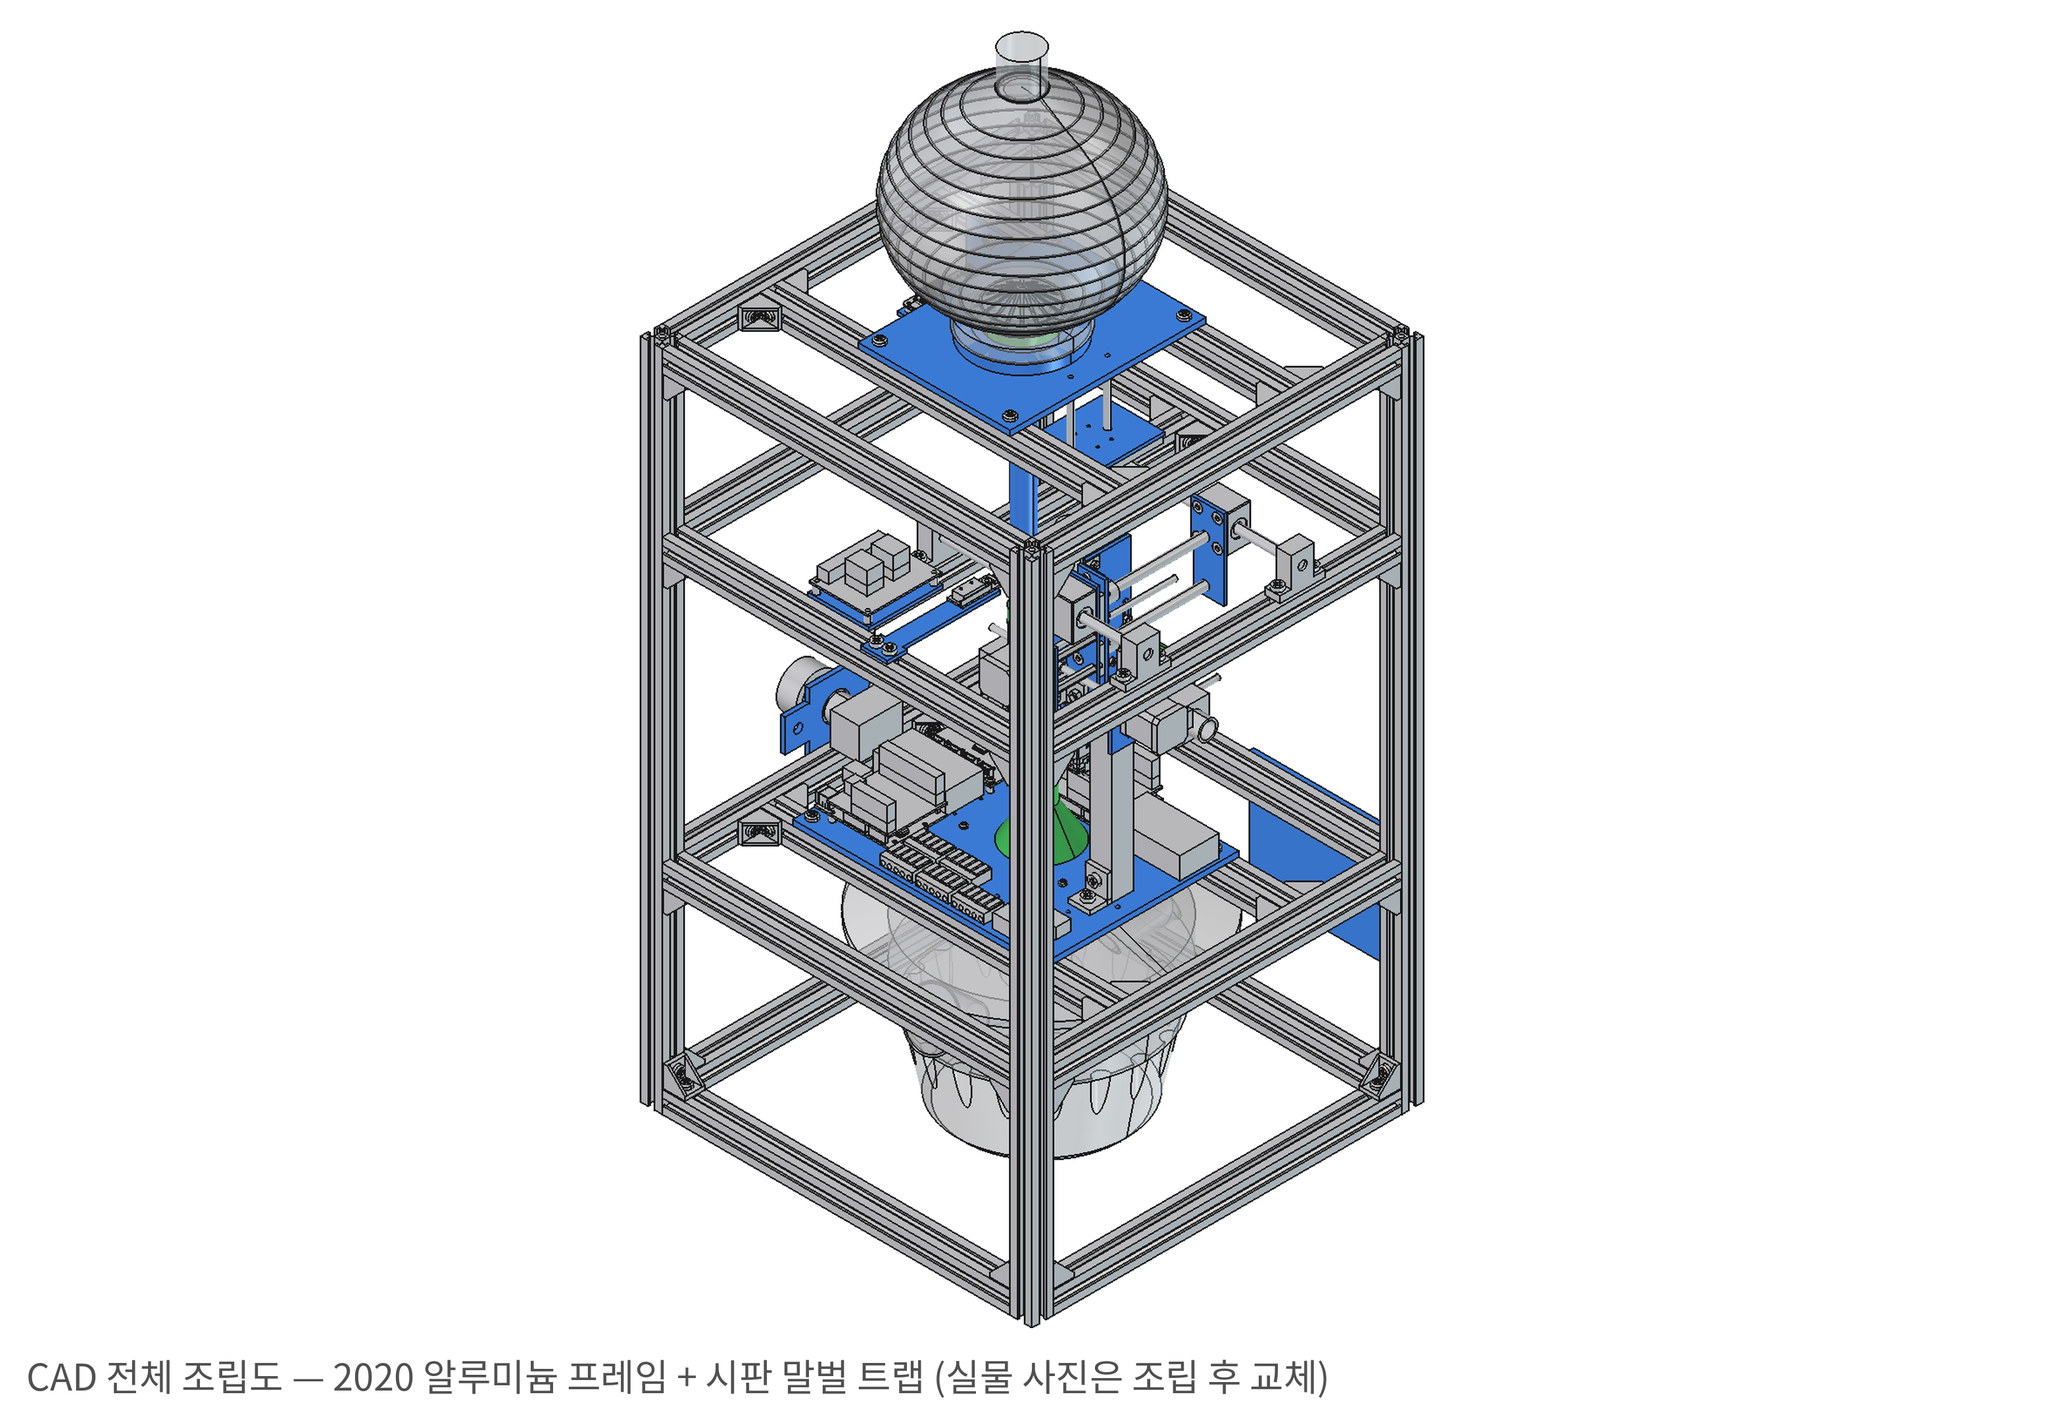
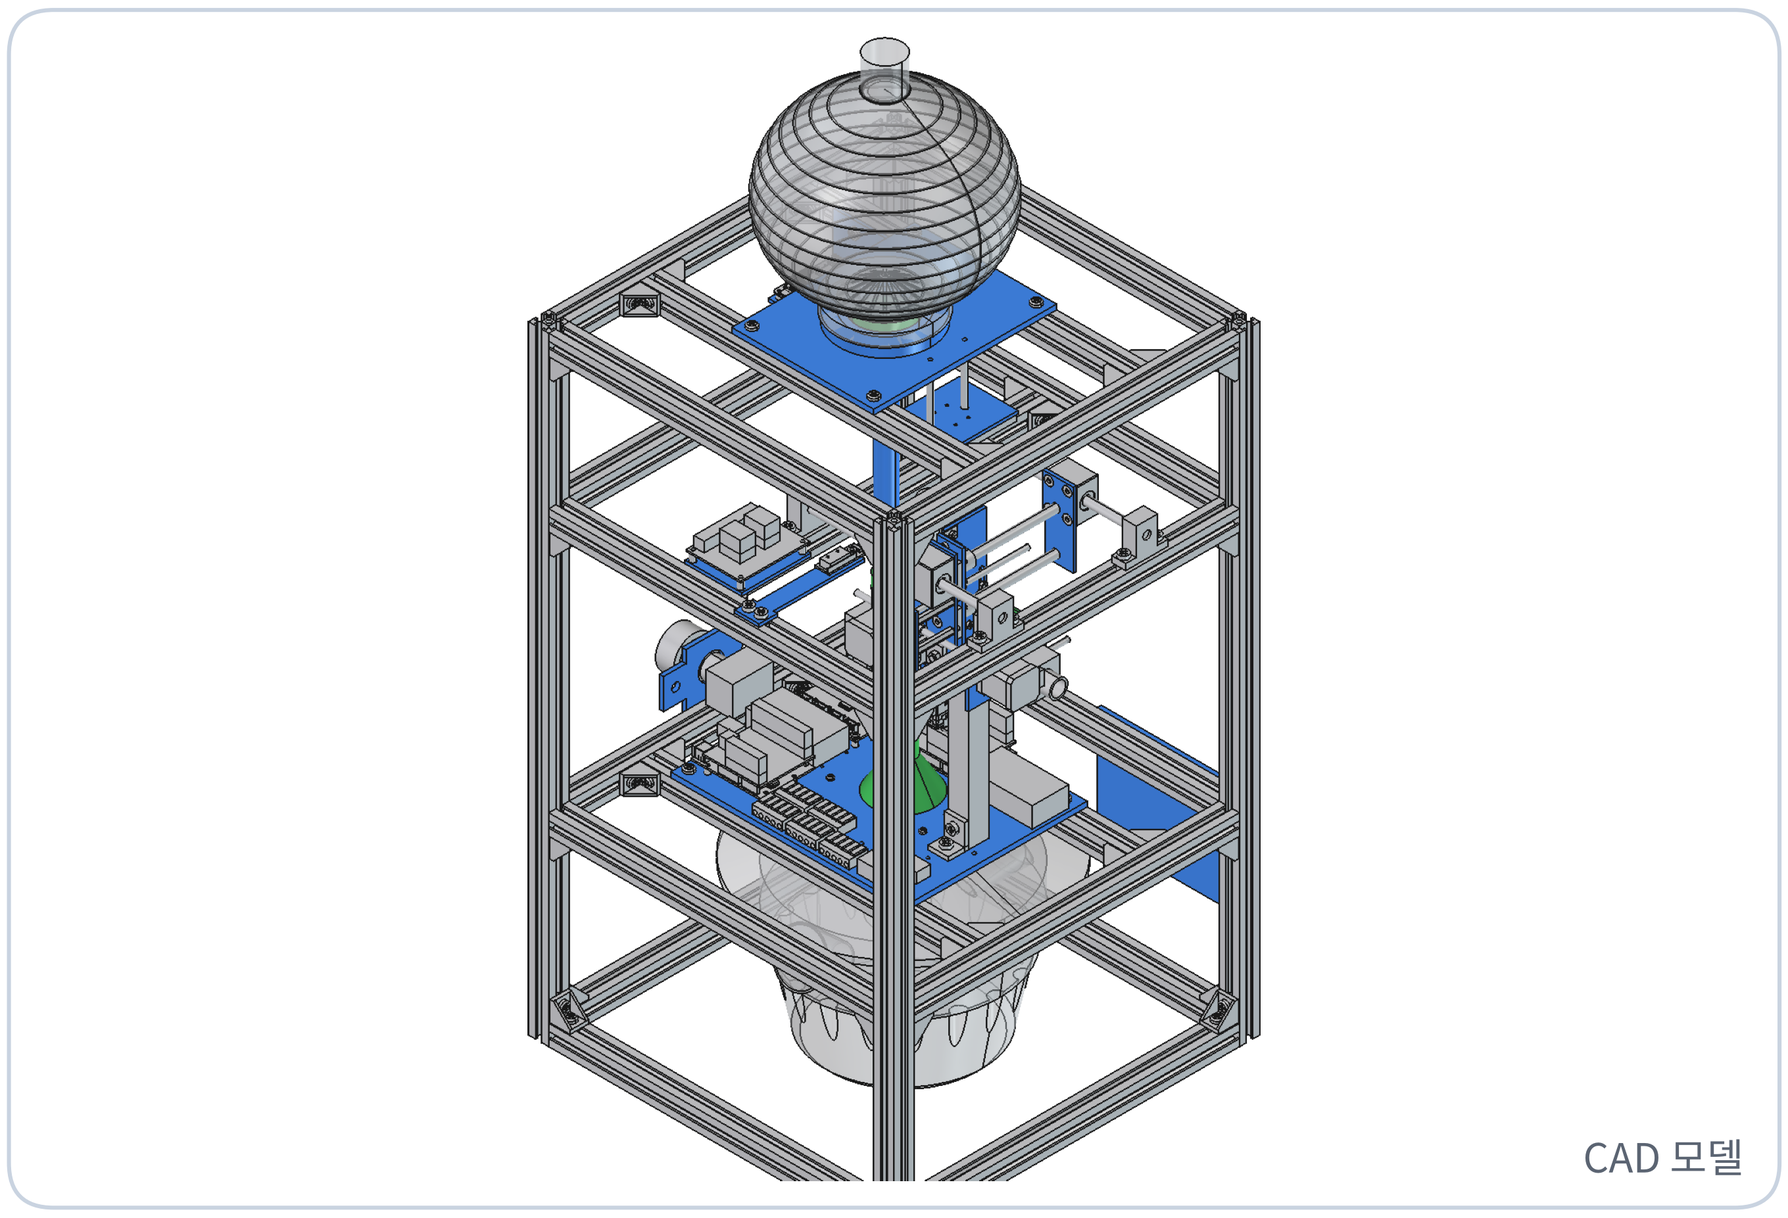
[서현] 포스터·판넬 다시: 글꼴·맞춤 버그 고침, 그림 5개 새 디자인, 글 명사 종결 (CAP-AI-62)
Claude-Session: https://claude.ai/code/session_01RWCzqVuPhrynBXeDi6fBqB

Changed region(s): [[0.0, 0.0, 1.0, 1.0]]

diff --git a/design/poster/figs2.py b/design/poster/figs2.py
@@ -1,0 +1,125 @@
+import matplotlib; matplotlib.use('Agg')
+import matplotlib.pyplot as plt
+from matplotlib import font_manager as fm
+from matplotlib.patches import FancyBboxPatch, Circle, Rectangle, Ellipse, FancyArrowPatch, Polygon
+from PIL import Image, ImageChops
+import numpy as np
+for f in ['/usr/share/fonts/opentype/noto/NotoSansCJK-Regular.ttc', '/usr/share/fonts/opentype/noto/NotoSansCJK-Bold.ttc']:
+    fm.fontManager.addfont(f)
+plt.rcParams['font.family'] = 'Noto Sans CJK JP'
+NAVY = '#1B2A4A'; BLUE = '#2563A8'; LIGHT = '#EAF1FA'; AMBER = '#E8A317'; GRAY = '#5B6472'; LINE = '#C9D3E0'
+W, H = 31.4 / 2.54, 21.4 / 2.54   # 실제 크기 (인치) → 글자 pt가 포스터에서 그대로
+DPI = 220
+
+def canvas():
+    f = plt.figure(figsize=(W, H), dpi=DPI); a = f.add_axes([0, 0, 1, 1]); a.set_xlim(0, 100); a.set_ylim(0, 68); a.axis('off'); return f, a
+
+def card(a, x, y, w, h, fc='white', ec=LINE, lw=2.0, r=1.6):
+    a.add_patch(FancyBboxPatch((x, y), w, h, boxstyle=f'round,pad=0,rounding_size={r}', fc=fc, ec=ec, lw=lw))
+
+def arrow(a, x1, y1, x2, y2, c=GRAY, lw=3):
+    a.add_patch(FancyArrowPatch((x1, y1), (x2, y2), arrowstyle='-|>', mutation_scale=34, lw=lw, color=c))
+
+def trim(path, top=0, bottom=0):
+    im = Image.open(path).convert('RGB'); im = im.crop((0, top, im.width, im.height - bottom))
+    bg = Image.new('RGB', im.size, 'white'); bb = ImageChops.difference(im, bg).convert('L').point(lambda q: 255 if q > 12 else 0).getbbox()
+    return im.crop(bb)
+
+def put(a, im, x, y, w, h):   # (x,y,w,h) 안에 비율 유지해 가운데
+    r = im.height / im.width; ax_r = (h / 68 * H) / (w / 100 * W)
+    if r > ax_r: ww = h / 68 * H / r / W * 100; hh = h
+    else: ww = w; hh = w / 100 * W * r / H * 68
+    x0 = x + (w - ww) / 2; y0 = y + (h - hh) / 2
+    a.imshow(np.asarray(im), extent=(x0, x0 + ww, y0, y0 + hh), zorder=2)
+
+# ── A 대표 그림: 등각 CAD
+f, a = canvas()
+card(a, 0.5, 0.5, 99, 67, fc='white', ec=LINE, r=2.5)
+put(a, trim('/home/claude/repo/cad/img/D5g_도1_전체_등각.png', 150, 90), 2, 2, 96, 64)
+a.text(97.5, 2.2, 'CAD 모델', ha='right', va='bottom', fontsize=20, color=GRAY)
+f.savefig('fig_rep.png'); plt.close(f)
+
+# ── B 작동 순서
+f, a = canvas()
+steps = [('들어옴', '빛 센서 감지\n입구 문 닫힘'), ('판별', '카메라 AI\n일벌 확인'), ('고정', '바닥 상승\n격자에 고정'),
+         ('표시', 'XY 펜\n가슴에 점'), ('내보냄', '출구 문 열림\n시각 기록')]
+cx = [10, 30, 50, 70, 90]
+for i, (t, s) in enumerate(steps):
+    hl = i in (2, 3)
+    a.add_patch(Circle((cx[i], 52), 6.2, fc=BLUE if hl else NAVY, ec='none', zorder=3))
+    a.text(cx[i], 52, str(i + 1), ha='center', va='center', fontsize=40, color='white', weight='bold', zorder=4)
+    a.text(cx[i], 40.5, t, ha='center', va='center', fontsize=36, color=NAVY, weight='bold')
+    a.text(cx[i], 31.0, s, ha='center', va='center', fontsize=24, color=GRAY, linespacing=1.35)
+    if i < 4: arrow(a, cx[i] + 7.2, 52, cx[i + 1] - 7.2, 52)
+card(a, 4, 3, 44, 13, fc=LIGHT, ec=LIGHT)
+a.text(26, 9.5, '일벌이 아니면 → 표시 없이 격리', ha='center', va='center', fontsize=25, color=NAVY, weight='bold')
+card(a, 52, 3, 44, 13, fc='#FDF3DE', ec='#FDF3DE')
+a.text(74, 9.5, '다시 잡히면 → 왕복 시간 기록', ha='center', va='center', fontsize=25, color=NAVY, weight='bold')
+f.savefig('fig_goal.png'); plt.close(f)
+
+# ── C 착상: VespAI + 마킹 통 = 우리
+def wasp(a, x, y, s=1.0, z=5):
+    a.add_patch(Ellipse((x + 1.6 * s, y), 7 * s, 3.0 * s, fc='#2E2E2E', ec='none', zorder=z))
+    a.add_patch(Ellipse((x - 1.8 * s, y), 2.8 * s, 2.4 * s, fc='#C97A10', ec='none', zorder=z + 1))
+def grid(a, x0, x1, y):
+    a.plot([x0, x1], [y, y], color='#7FA7D6', lw=6, solid_capstyle='butt', zorder=6)
+    for xx in np.arange(x0 + 1.2, x1, 2.4): a.plot([xx, xx], [y - 0.5, y + 0.5], color='white', lw=2.5, zorder=7)
+f, a = canvas()
+xs = [1, 35, 69]; cw = 30
+heads = [('기존 ①  VespAI', '카메라 AI로 판별만'), ('기존 ②  여왕벌 마킹 통', '사람이 손으로 고정·표시'), ('우리 장치', '판별·고정·표시 자동')]
+for i, x in enumerate(xs):
+    card(a, x, 2, cw, 64, fc=LIGHT if i == 2 else 'white', ec=BLUE if i == 2 else LINE, lw=3 if i == 2 else 2)
+    a.text(x + cw / 2, 60, heads[i][0], ha='center', va='center', fontsize=27, weight='bold', color=NAVY)
+    a.text(x + cw / 2, 8, heads[i][1], ha='center', va='center', fontsize=22, color=BLUE if i == 2 else GRAY, weight='bold' if i == 2 else 'normal')
+a.text(33.0, 34, '+', ha='center', va='center', fontsize=60, color=GRAY, weight='bold')
+a.text(67.0, 34, '=', ha='center', va='center', fontsize=60, color=GRAY, weight='bold')
+put(a, Image.open('vespai_v.jpg'), xs[0] + 2, 14, cw - 4, 40)
+a.text(xs[0] + cw / 2, 3.6, "영상: O'Shea-Wheller 2024 (CC BY-NC-SA)", ha='center', fontsize=12, color=GRAY)
+# 마킹 통 (사람 손)
+c = xs[1] + cw / 2
+a.add_patch(Rectangle((c - 7, 15), 14, 32, fill=False, ec=GRAY, lw=3))
+grid(a, c - 7, c + 7, 47)
+wasp(a, c, 45.2)
+a.add_patch(Rectangle((c - 6.5, 41.5), 13, 1.6, fc='#B9C2CC', ec='none')); a.add_patch(Rectangle((c - 1, 15), 2, 26.5, fc='#B9C2CC', ec='none'))
+arrow(a, c + 4, 22, c + 4, 38, c=BLUE, lw=3.5)
+a.text(c, 11.6, '손으로 밀어 올림', ha='center', fontsize=18, color=GRAY)
+a.add_patch(Polygon([[c - 1, 49], [c + 1, 49], [c + 1.6, 55], [c - 1.6, 55]], fc=AMBER, ec='none'))
+a.text(c + 3, 53, '붓', fontsize=17, color=GRAY, va='center')
+# 우리 장치
+c = xs[2] + cw / 2
+a.add_patch(Rectangle((c - 7, 15), 14, 32, fill=False, ec=NAVY, lw=3))
+grid(a, c - 7, c + 7, 47)
+wasp(a, c, 45.2)
+a.add_patch(Rectangle((c - 6.5, 41.5), 13, 1.6, fc='#7FA7D6', ec='none')); a.add_patch(Rectangle((c - 1, 15), 2, 26.5, fc='#7FA7D6', ec='none'))
+a.add_patch(Rectangle((c - 3.2, 15), 6.4, 5, fc=NAVY, ec='none')); a.text(c + 5, 17.5, '서보', fontsize=17, color=NAVY, va='center')
+arrow(a, c + 4, 23, c + 4, 38, c=BLUE, lw=3.5)
+a.add_patch(Polygon([[c + 2, 49], [c + 4, 49], [c + 4.6, 55], [c + 1.4, 55]], fc=AMBER, ec='none'))
+a.text(c + 6, 53, 'XY 펜', fontsize=17, color=NAVY, va='center')
+a.add_patch(Rectangle((c - 6, 51.5), 4.6, 3.2, fc=NAVY, ec='none')); a.add_patch(Circle((c - 3.7, 51.4), 0.9, fc='#9FC3F0', ec='none'))
+a.text(c - 6.5, 53.1, '카메라', fontsize=17, color=NAVY, va='center', ha='right')
+f.savefig('fig_idea.png'); plt.close(f)
+
+# ── D 결과: 세 방향 그림
+f, a = canvas()
+views = [('정면', 'D5g_도2_정면.png'), ('측면', 'D5g_도3_측면.png'), ('위', 'D5g_도4_위.png')]
+for i, (t, fn) in enumerate(views):
+    x = 1 + i * 33
+    card(a, x, 2, 32, 64, fc='white', ec=LINE, r=2)
+    put(a, trim('/home/claude/repo/cad/img/' + fn, 150, 90), x + 1.5, 4, 29, 52)
+    a.text(x + 16, 61, t, ha='center', va='center', fontsize=28, weight='bold', color=NAVY)
+f.savefig('fig_result.png'); plt.close(f)
+
+# ── E 활용: B2G 흐름
+f, a = canvas()
+flow = [('트랩 설치', '양봉장 주변\n여러 곳'), ('자동 표시', '일벌 표시 후\n내보냄'), ('시각 수집', '다시 잡힌\n시각 기록'), ('둥지 제거', '거리 범위로\n둥지 탐색')]
+for i, (t, s) in enumerate(flow):
+    x = 1.5 + i * 25
+    hl = i == 3
+    card(a, x, 22, 21, 40, fc=NAVY if hl else LIGHT, ec='none', r=2)
+    a.text(x + 10.5, 51, t, ha='center', va='center', fontsize=31, weight='bold', color='white' if hl else NAVY)
+    a.text(x + 10.5, 35, s, ha='center', va='center', fontsize=23, color='white' if hl else GRAY, linespacing=1.4)
+    if i < 3: arrow(a, x + 21.4, 42, x + 25, 42)
+a.text(50, 12.5, '지자체·방제 기관용 조사 장비 (B2G)', ha='center', va='center', fontsize=30, weight='bold', color=BLUE)
+a.text(50, 4.5, '양봉농가는 표시 없이 모두 가두는 방제 모드로 사용', ha='center', va='center', fontsize=22, color=GRAY)
+f.savefig('fig_use.png'); plt.close(f)
+print('ok')

diff --git a/design/poster/content.py b/design/poster/content.py
@@ -1,13 +1,13 @@
 OUT='말벌트랩_포스터_앵커_초안.pptx'
 TITLE='등검은말벌 둥지 추적 마킹 트랩'
-TEAM=[('팀      명 ','초벌'),('소      속 ','국립공주대학교 00컨소시엄'),('지도교수 ','기계자동차공학부 기계공학전공 김성관 교수'),('팀      장 ','기계자동차공학부 기계공학전공 이서현(0학년)'),('팀      원 ','000학부(학과) 000전공 이승준(0학년)')]
+TEAM=[('팀      명 ','초벌'),('소      속 ','국립공주대학교 그린바이오 컨소시엄'),('지도교수 ','기계자동차공학부 기계공학전공 김성관 교수'),('팀      장 ','기계자동차공학부 기계공학전공 이서현(4학년)'),('팀      원 ','기계자동차공학부 기계공학전공 이승준(3학년)')]
 BODY={
-'직사각형 20':['등검은말벌: 꿀벌 포식, 생태계교란 생물 (2019)','방제 핵심은 둥지 — 찾기는 사람이 잡아 표시','위험하고 느린 이 첫 단계를 기계로 바꿈'],
-'직사각형 21':['VespAI (2024)는 판별만 → 판별·고정·표시를 자동','일벌만 표시해 내보내고 재포획 시각 기록','시판 트랩에 얹는 모듈, 공공기관 (B2G)용'],
-'직사각형 35':['형광 가루 → 수성 마커로, 전문가 자문 반영','"한 마리를 정확히" 원칙, 시판 트랩 레트로핏'],
-'직사각형 37':['승강 바닥이 말벌을 투명 격자에 고정','XY 리드스크루 + 서보 펜으로 가슴에 한 점','빛 게이트 3쌍 · 서보 문 · Pi 5 카메라 AI'],
-'직사각형 42':['CAD 움직임·간섭 검사 통과 (새 겹침 0)','제어 시뮬레이션 90/90 · 37/37 · 53/53','표본 말벌로 문 → 마킹 → 내보냄 시연'],
-'직사각형 43':['둥지 탐색 첫 단계의 사람 위험·시간 감소','재포획 시각 → 둥지까지 거리 범위 계산'],
-'직사각형 44':['지자체·방제기관용 B2G 조사 장비로 제안','2027 여름 실물 시험 → 특허 출원 검토'],
+'직사각형 20':['등검은말벌의 꿀벌 포식으로 양봉 피해 증가','근본 대책은 둥지 제거이나 둥지 탐색이 어려움','말벌 포획·표시를 사람이 직접 수행 → 쏘임 위험'],
+'직사각형 21':['말벌 고정·표시 과정의 완전 자동화','등검은말벌 일벌만 골라 표시·재포획 시각 기록','시판 트랩 장착형 모듈로 공공기관 보급'],
+'직사각형 35':['VespAI의 AI 판별과 여왕벌 마킹 통의 고정·표시','두 방식을 결합한 자동 표시 장치로 기획'],
+'직사각형 37':['승강 바닥으로 말벌을 투명 격자에 고정','XY 이송 펜으로 격자 구멍 너머 가슴에 점 표시','카메라 AI 판별과 적외선 센서 기반 문 제어'],
+'직사각형 42':['들어옴 → 판별 → 고정 → 표시 → 내보냄 자동 처리','일벌이 아닌 개체는 표시 없이 격리','12 V 단일 전원의 알루미늄 프레임 모듈 구조'],
+'직사각형 43':['위험한 손 표시 작업을 기계로 대체','재포획 시각 기반 둥지 거리 추정'],
+'직사각형 44':['지자체·방제 기관용 B2G 조사 장비로 보급','2027년 실물 시험 후 특허 출원'],
 }
 PICS={'직사각형 12':'fig_rep.png','직사각형 45':'fig_goal.png','직사각형 46':'fig_idea.png','직사각형 48':'fig_result.png','직사각형 47':'fig_use.png'}

diff --git a/design/poster/mkposter.py b/design/poster/mkposter.py
@@ -1,6 +1,6 @@
 import re, shutil, zipfile, os
 from xml.sax.saxutils import escape as e
-import sys; SRC=sys.argv[1]  # fig_idea.png는 VespAI 예시 영상 장면이 들어가 레포에 안 넣음 (figs.py가 vespai_v.jpg로 만듦)  # 앵커 포스터 양식 pptx (대회 배포 양식 — 레포에 넣지 않음)
+SRC='/mnt/user-data/uploads/4d99da49-3._2026____________________________.pptx'
 D='build/x'; shutil.rmtree(D,ignore_errors=True); zipfile.ZipFile(SRC).extractall(D)
 S=D+'/ppt/slides/slide1.xml'; RL=D+'/ppt/slides/_rels/slide1.xml.rels'
 x=open(S,encoding='utf-8').read(); rels=open(RL,encoding='utf-8').read()
@@ -8,9 +8,16 @@ def sp_of(name):
     m=[m for m in re.finditer(r'<p:sp>.*?</p:sp>',x,re.S) if f'name="{name}"' in m.group()]; assert len(m)==1,name; return m[0]
 def paras(sp): return re.findall(r'<a:p>.*?</a:p>',sp,re.S)
 def first_rpr(p): return re.search(r'<a:rPr[^>]*/>|<a:rPr[^>]*>.*?</a:rPr>',p,re.S).group()
+def fixfont(rpr):
+    rpr=rpr.replace('lang="en-US" altLang="ko-KR"','lang="ko-KR" altLang="en-US"')
+    rpr=re.sub(r' spc="-?\d+"','',rpr)
+    if '<a:ea ' not in rpr and '<a:latin' in rpr:
+        rpr=re.sub(r'(<a:latin [^>]*/>)',r'\1<a:ea typeface="맑은 고딕" panose="020B0503020000020004" pitchFamily="50" charset="-127"/>',rpr,1)
+    return rpr
 def mkpara(tpl,text):
     ppr=re.search(r'<a:pPr.*?</a:pPr>|<a:pPr[^>]*/>',tpl,re.S); ppr=ppr.group() if ppr else ''
-    rpr=first_rpr(tpl)
+    ppr=ppr.replace('algn="just"','algn="l"')
+    rpr=fixfont(first_rpr(tpl))
     return f'<a:p>{ppr}<a:r>{rpr}<a:t>{e(text)}</a:t></a:r></a:p>'
 def set_body(name,lines):
     global x
@@ -31,6 +38,7 @@ def set_team(name,rows):
     for p,(lab,val) in zip(ps,rows):
         ppr=re.search(r'<a:pPr.*?</a:pPr>',p,re.S).group()
         rprs=re.findall(r'<a:rPr[^>]*>.*?</a:rPr>|<a:rPr[^>]*/>',p,re.S)
+        rprs=[fixfont(r) for r in rprs]
         out+=f'<a:p>{ppr}<a:r>{rprs[0]}<a:t>{e(lab)}</a:t></a:r><a:r>{rprs[1]}<a:t>{e("| "+val)}</a:t></a:r></a:p>'
     for p in ps[len(rows):]: out+=re.sub(r'<a:t>[^<]*</a:t>','<a:t></a:t>',p)
     body=re.search(r'(<p:txBody>.*?<a:lstStyle/>)(.*)(</p:txBody>)',sp,re.S)

diff --git a/design/poster/panel_content.py b/design/poster/panel_content.py
@@ -1,4 +1,4 @@
-P11=['등검은말벌: 꿀벌을 잡아먹는 외래종, 생태계교란 생물 (2019 지정)','방제의 핵심은 둥지 제거 — 트랩은 일벌만 줄임','둥지 찾기의 첫 단계 (말벌을 잡아 표시)는 지금 사람이 손으로 함 → 위험하고 느림','선행 연구 VespAI (영국, 2024)는 카메라 AI로 판별까지만 함','목표: 판별·고정·표시를 사람 없이 하는 트랩 모듈']
-P12=['시판 말벌 트랩에 얹는 모듈 (공공기관 B2G)','들어옴 → 카메라 AI 판별 (VespAI를 우리 표본·격자로 다시 학습) → 승강 바닥 고정 → XY 펜으로 가슴에 점 → 내보냄·시각 기록','여왕벌·다른 종은 격리']
-P41=['여왕벌 마킹 통 원리를 기계화해 사람 손 없이 고정·표시','CAD 움직임·간섭 검사, 제어 시뮬레이션 통과','표본 말벌로 문 → 마킹 → 내보냄 시연']
-P42=['둥지 탐색 첫 단계의 사람 위험·시간 감소','재포획 시각 → 둥지까지 거리 범위 (방제 기관용)','2027 여름 실물 시험 → 특허 출원 검토']
+P11=['등검은말벌의 꿀벌 포식으로 양봉 피해 증가','근본 대책은 둥지 제거','둥지 탐색의 첫 단계인 말벌 표시를 사람이 직접 수행 → 쏘임 위험·긴 작업 시간','목표: 말벌 고정·표시 과정의 완전 자동화']
+P12=['시판 트랩 장착형 모듈','카메라 AI 판별 → 승강 바닥 고정 → XY 펜 표시 → 내보냄·시각 기록','일벌이 아닌 개체는 표시 없이 격리']
+P41=['여왕벌 마킹 통 원리의 기계화로 사람 손 없는 고정·표시 구현','AI 판별과 결합한 시판 트랩 장착형 모듈 설계','12/2 말벌 표본으로 동작 시연']
+P42=['위험한 손 표시 작업을 기계로 대체','재포획 시각 기반 둥지 거리 추정','지자체·방제 기관용 B2G 조사 장비로 보급']

diff --git a/ai-log/AI_명령사항_로그.md b/ai-log/AI_명령사항_로그.md
@@ -1415,4 +1415,12 @@
     6. **설계계획서** `말벌트랩_설계계획서.hwpx` (2024 양식에 2026년도 2학기, 설계주제·조명·문제설정·설계절차·구성요소·제한조건. 평가지침·평가도구·학수번호는 빈칸. **LibreOffice가 hwpx를 못 열어 렌더 확인 못 함 — XML 검사만 통과**)
     7. 판넬 (11/23 고친 판)
   - 스크립트 `design/submit/` (report.js · ppt.py · minutes.js · fill_plan.py)
+- **(11/23 14:46~) 서현 "디자인·빈칸·설명 다 마음에 안 듦" → "설명 글부터 정리" → "제거임→제거처럼, 검증 결과는 포스터에서 빼, 연락처·학년·그린바이오, 글씨체·맞춤 제대로":**
+  - 원인 [확실]: 포스터 글 run이 lang en-US·한글 글꼴(ea) 없음·양쪽 맞춤·자간 −300 → 한글·문장부호 글꼴이 갈려 띄어쓰기가 깨져 보임 → `mkposter.py` fixfont (ko-KR, ea 맑은 고딕, 자간 원래대로, 왼쪽 맞춤). 양식 글꼴은 맑은 고딕 (테마 한글 글꼴도 맑은 고딕) — 그대로 씀
+  - 설명 글 정리본을 채팅에 먼저 냄 (작품명·한 줄 소개·문제·목표·선행·작동 순서·설계 핵심·검증·기대효과·한계) → 서현 수정 반영: 끝을 명사로 (제거·지정), 검증 결과는 포스터에서 뺌
+  - **그림 5개 새로** (`design/poster/figs2.py`): 같은 색·글꼴 체계, 실제 크기 기준 글자 22~40 pt, 글 줄임 — 대표 CAD / 작동 순서 5단계 (번호 원) / 기존①VespAI + 기존②마킹 통 = 우리 장치 / 정면·측면·위 / B2G 4단계
+  - 포스터 팀 정보: 그린바이오 컨소시엄, 서현 4학년, 승준 3학년 (**승준 학과는 기계공학전공으로 가정 — 확인 필요**)
+  - 참가신청서: 연락처·이메일·컨소시엄 채움 (바탕화면만, 레포에 안 넣음). 남은 칸: 학번 2개, 개인정보 동의, M열
+  - 파일 이름에서 '초안' 뺌: `말벌트랩_포스터_앵커.pptx`, `말벌트랩_판넬_창의융합.pptx`, `말벌트랩_앵커_참가신청서.xlsx` (예전 '_초안' 파일은 폴더에 남음 — 지울 권한 없음)
+  - 미리보기 한계: LibreOffice 렌더라 맑은 고딕이 없고 '1. 설계 주제' 같은 양식 제목이 겹쳐 보임 (양식 상자가 줄바꿈 없음 — PowerPoint에서는 한 줄 [가능성 높음])
 
